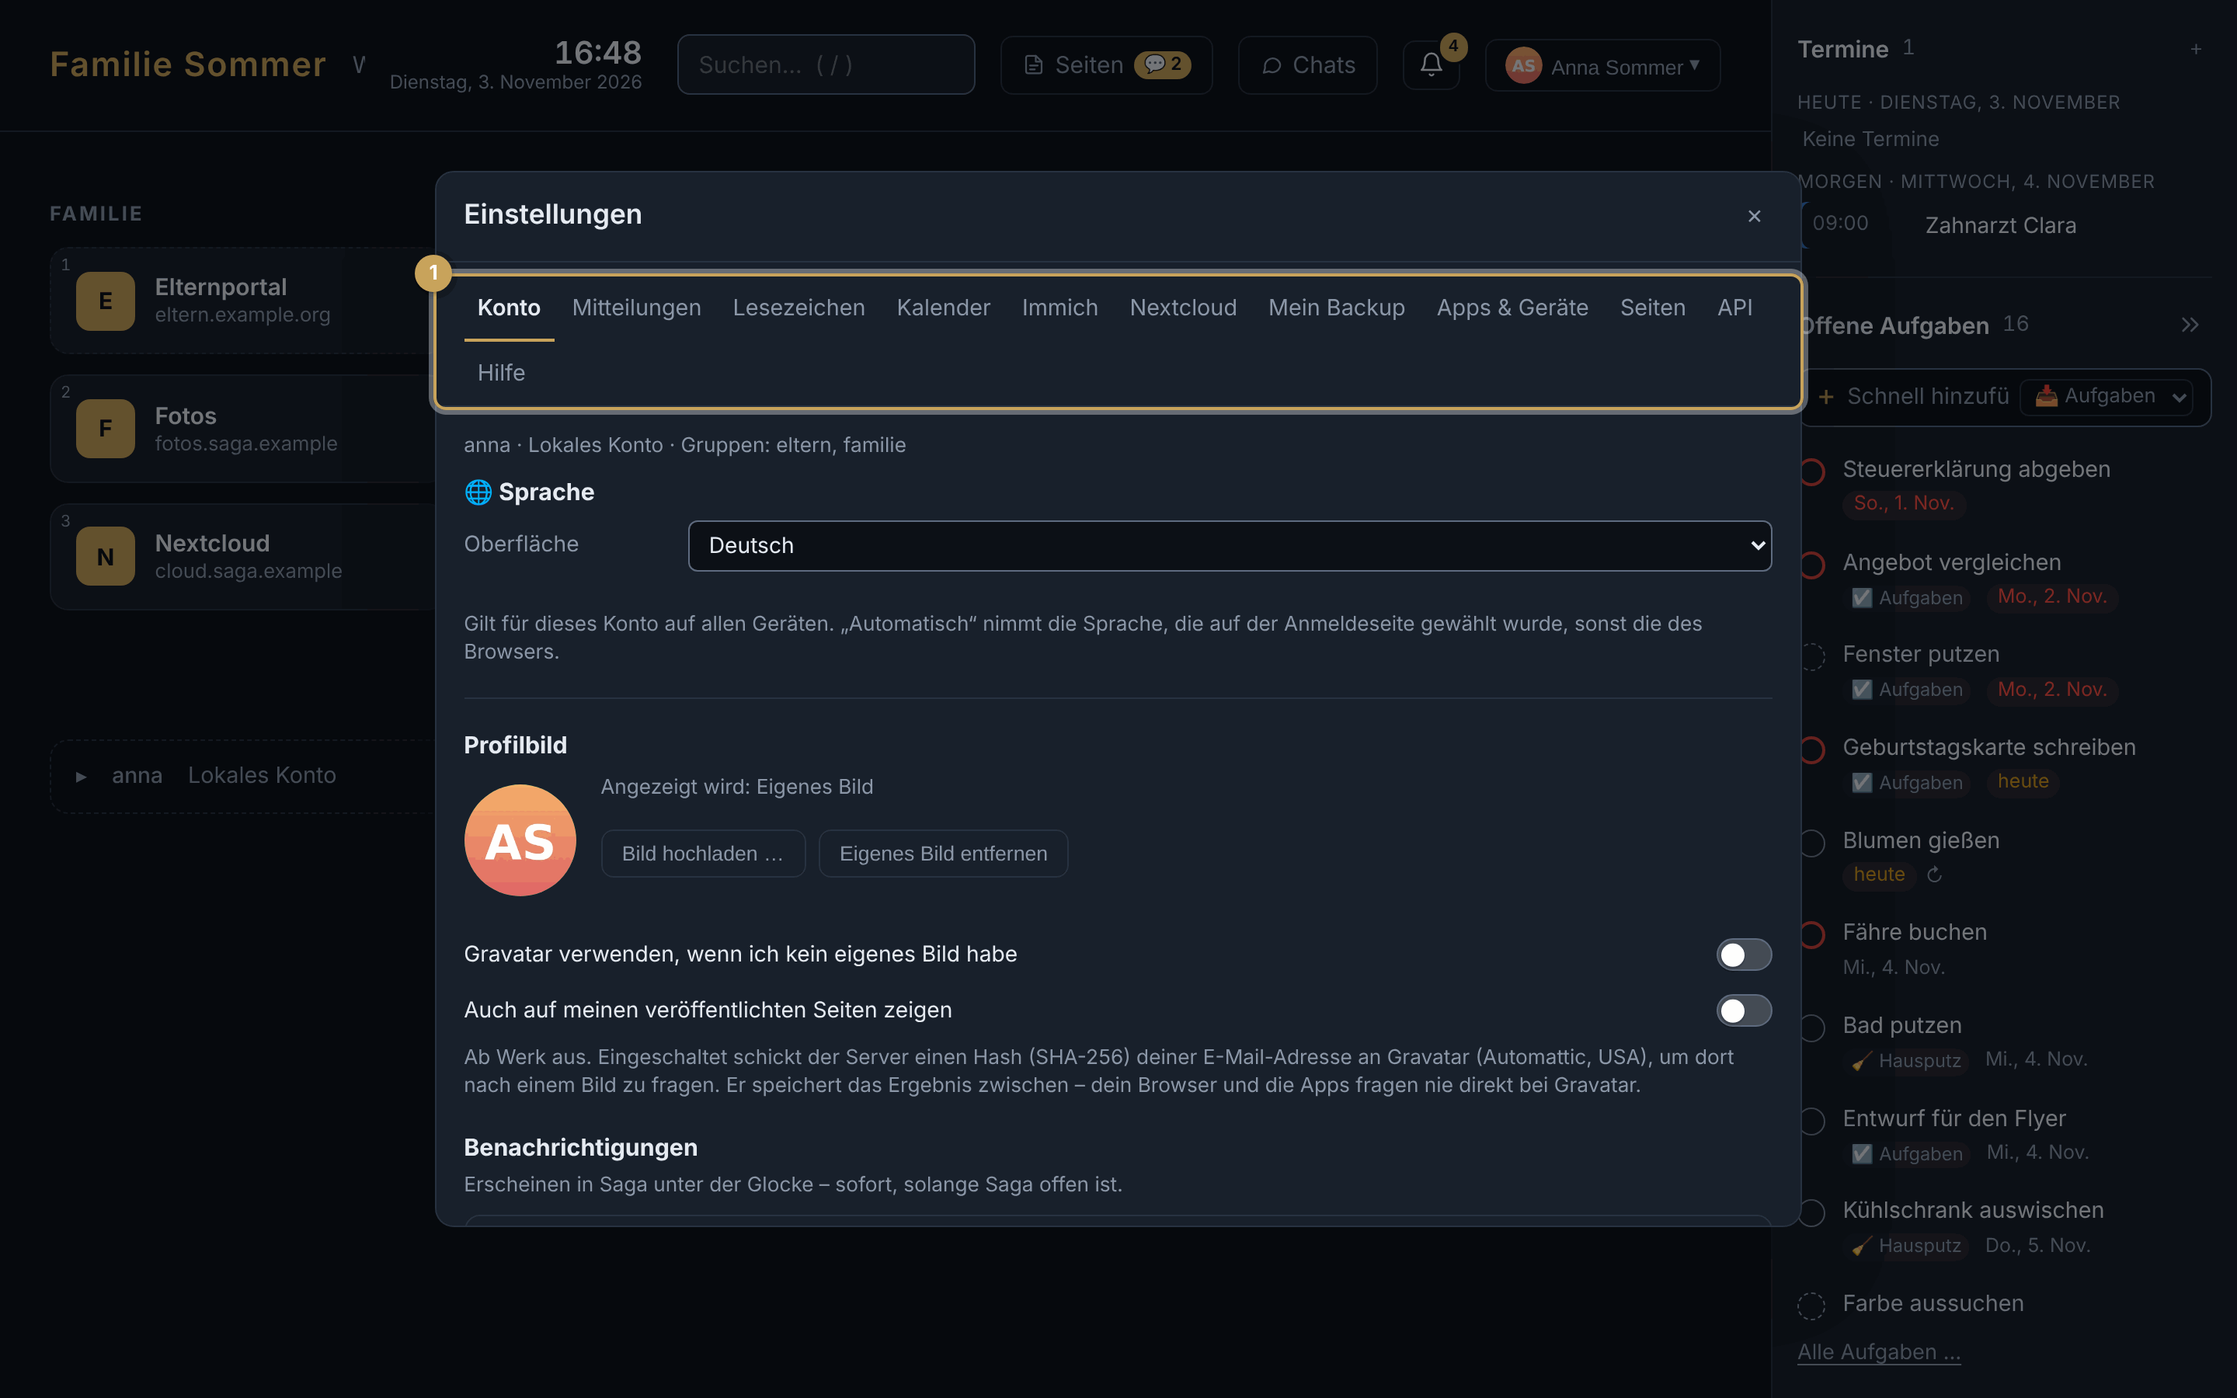
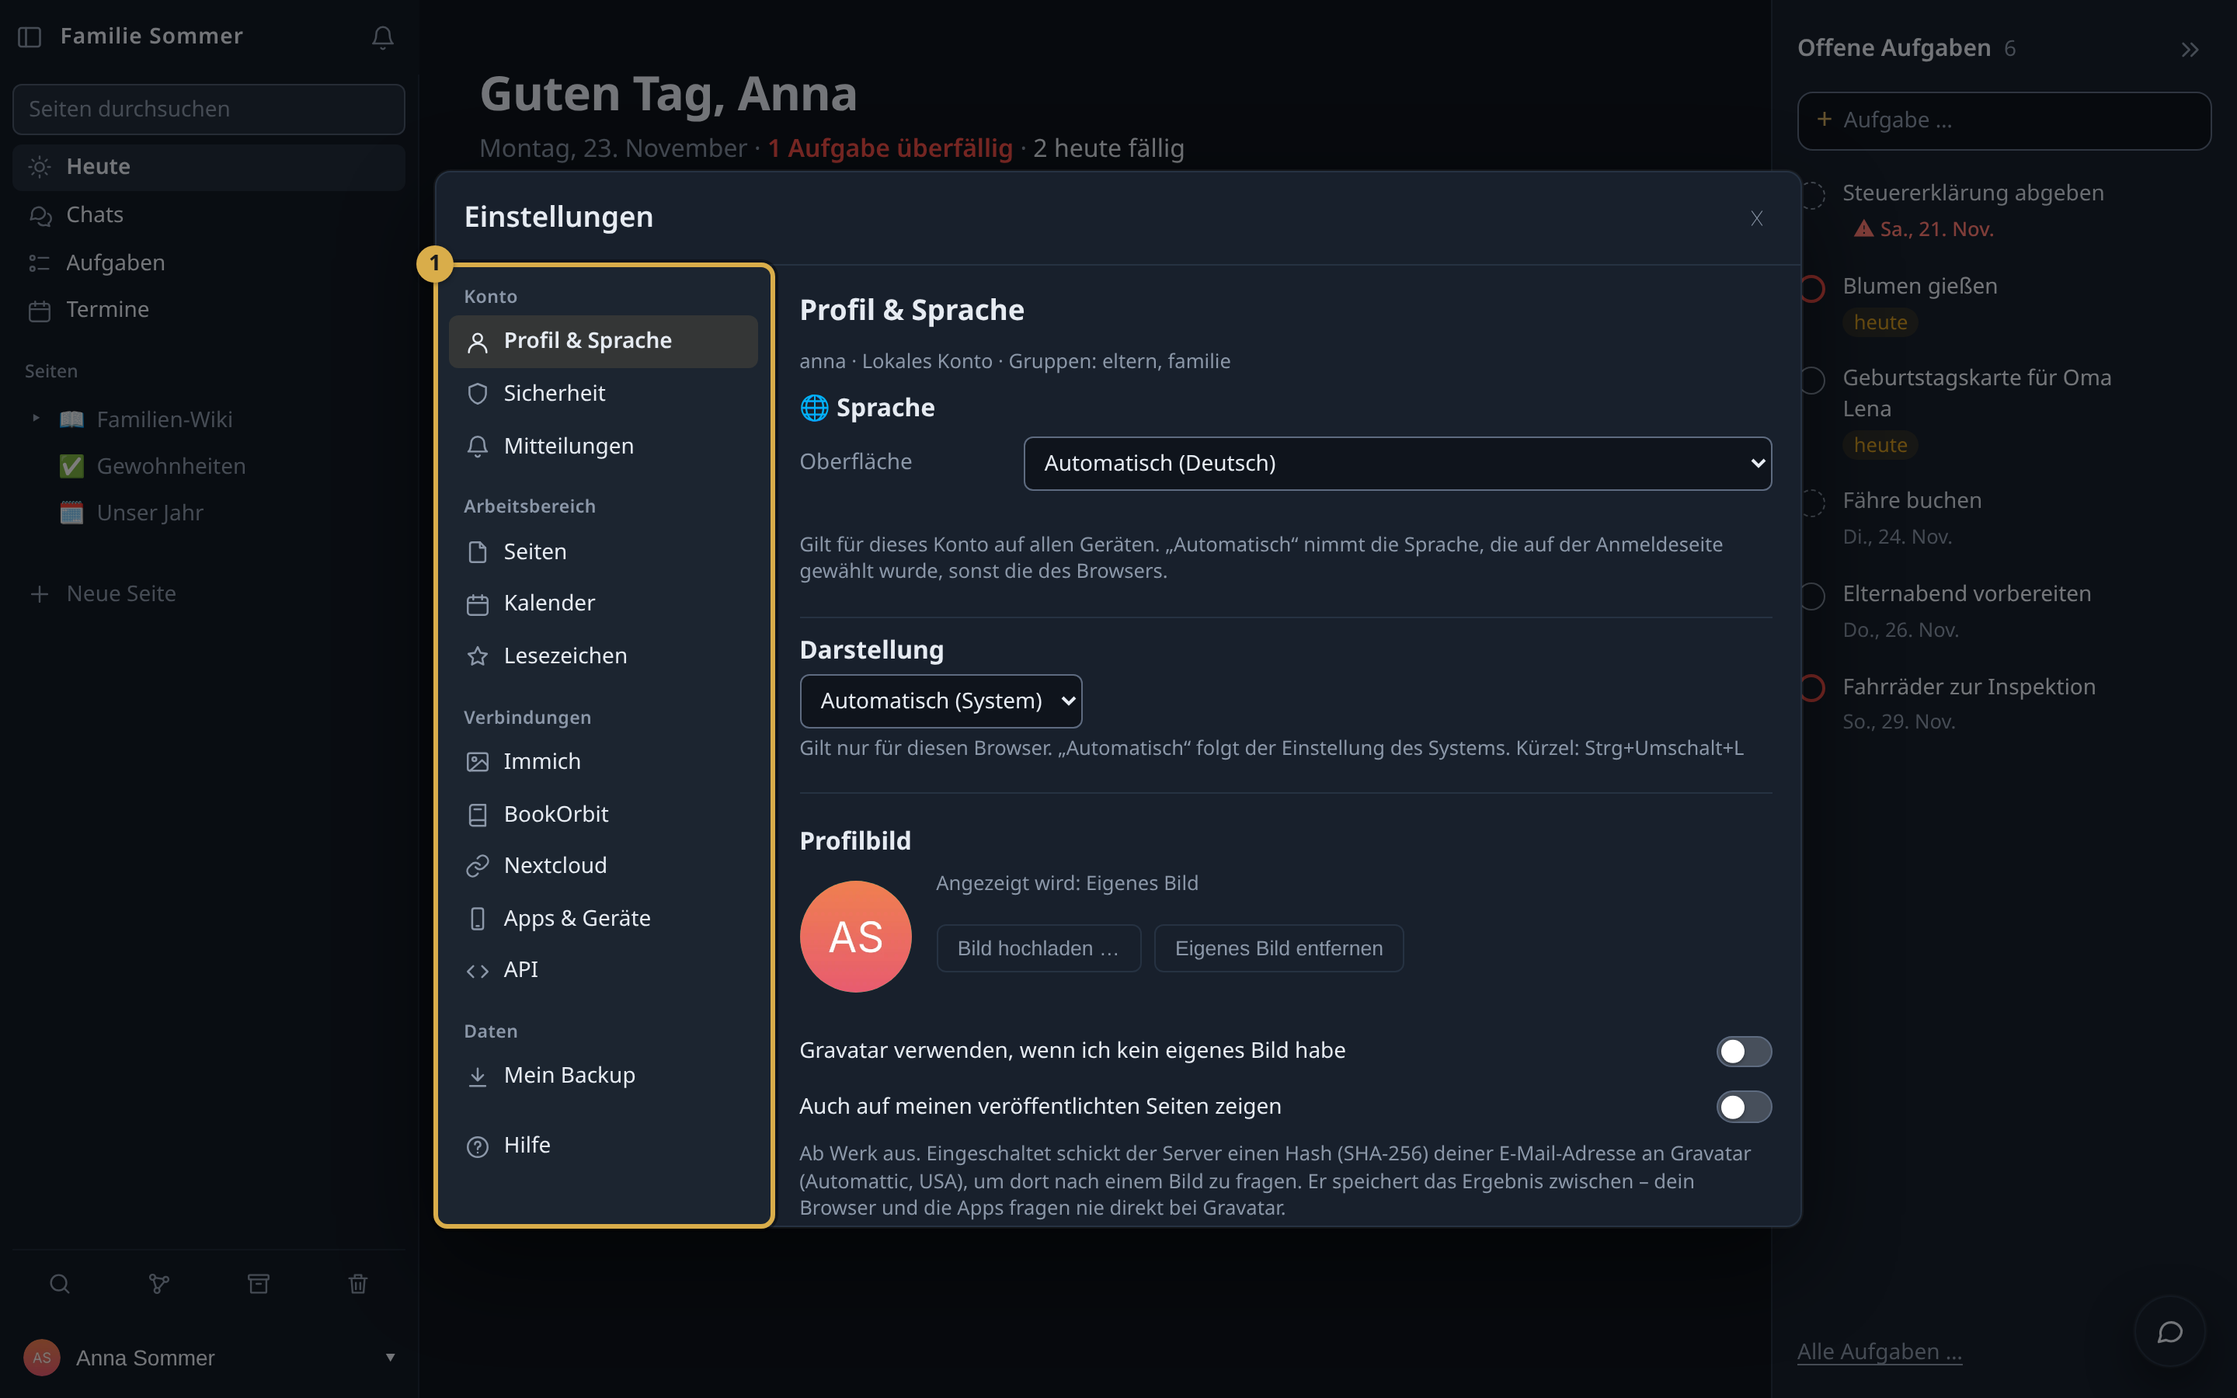
Handbuch: Einstellungs- und Admin-Bilder neu, Texte an die Navigation angepasst (Bugs-DB 2189)
Einstellungen haben seit UX-39 links eine Navigation statt der Reiterleiste: b01-04, b01-05, b01-07, b03-01, b14-02,
b16-01, b17-01, b18-01, b18-02, b19-01, b19-02 neu. Dazu a05-01 (Standard (Tiptap)), a06-02 (Tunnel-Betrieb, Alle Anrufe
ueber Knoten an, Knoten-Liste) und a09-01 (docker compose logs, echtes Zeilenformat). B01/B03 und Verweise auf
Einstellungen -> Konto an Profil & Sprache, Sicherheit und Mitteilungen angepasst, Hinweise auf veraltete Bilder entfernt.

Claude-Session: https://claude.ai/code/session_01Tj78KNaqCkatGoT8N4x7Zx

diff --git a/docs/handbuch/benutzer/01-erste-schritte.md b/docs/handbuch/benutzer/01-erste-schritte.md
@@ -84,10 +84,10 @@ Was die Nummern bedeuten:
 ### 3. Konto absichern: Passkey, Authenticator-App, Wiederherstellungscodes
 
 Ein Passwort allein kann erraten oder gestohlen werden. Deshalb kannst du dein Konto zusätzlich schützen.
-Du findest alles unter **Einstellungen → Konto → Anmeldung & Sicherheit**:
+Du findest alles unter **Einstellungen → Sicherheit**:
 
-1. Klick oben rechts auf deinen Namen (das Benutzermenü) und dann auf **⚙ Einstellungen**.
-2. Bleib auf dem Reiter **Konto** und scroll nach unten bis **Anmeldung & Sicherheit**.
+1. Klick unten links in der Seitenleiste auf deinen Namen (das Benutzermenü) und dann auf **⚙ Einstellungen**.
+2. Wähl links unter **Konto** den Bereich **Sicherheit**.
 
 ![Bereich „Anmeldung & Sicherheit“: ein Passkey „Annas MacBook“, eine eingerichtete Authenticator-App und 10 übrige Wiederherstellungscodes](../bilder/b01-03-sicherheit.png)
 
@@ -139,7 +139,7 @@ weiter. Das schützt dich, falls jemand an deinem offenen Laptop sitzt.
 
 ### 5. Profil: Name und Profilbild
 
-Unter **Einstellungen → Konto** stellst du ein, wie andere dich sehen.
+Unter **Einstellungen → Profil & Sprache** stellst du ein, wie andere dich sehen.
 
 **Anzeigename und E-Mail**
 
@@ -153,7 +153,8 @@ Unter **Einstellungen → Konto** stellst du ein, wie andere dich sehen.
 
 **Passwort ändern**
 
-1. Gib unter **Passwort ändern** dein bisheriges Passwort ein, dann zweimal das neue (mindestens 10 Zeichen).
+1. Gib unter **Einstellungen → Sicherheit** bei **Passwort ändern** dein bisheriges Passwort ein, dann zweimal das
+   neue (mindestens 10 Zeichen).
 2. Klick auf **Passwort ändern**.
 
 Danach werden alle **anderen** Browser und angemeldeten Apps abgemeldet – nur der Browser, in dem du gerade
@@ -167,7 +168,7 @@ bist, bleibt angemeldet. Die Apps melden sich einmal neu an.
 2. Zieh das Bild bei ① an die richtige Stelle und vergrößere es mit dem Regler ② **Zoom**.
 3. Klick auf **Übernehmen**.
 
-Dein Bild erscheint jetzt überall, wo du auftauchst: oben rechts, bei Kommentaren, im Chat und in der Liste
+Dein Bild erscheint jetzt überall, wo du auftauchst: in der Seitenleiste, bei Kommentaren, im Chat und in der Liste
 „Wer gerade hier ist“. Saga entfernt dabei versteckte Angaben aus dem Foto, etwa den Aufnahmeort. Mit
 **Eigenes Bild entfernen** kommen wieder deine Initialen.
 
@@ -188,10 +189,10 @@ dazu in [B10 Teilen, Rechte, Kommentare, Veröffentlichen](10-teilen.md#5-eine-s
 
 Saga spricht Deutsch, Englisch, Spanisch, Russisch und Thai.
 
-![Einstellungen, Reiter Konto, Abschnitt „Sprache“ mit der Auswahlliste „Oberfläche“](../bilder/b01-05-sprache.png)
+![Einstellungen, Bereich „Profil & Sprache“, Abschnitt „Sprache“ mit der Auswahlliste „Oberfläche“](../bilder/b01-05-sprache.png)
 
-1. Öffne **Einstellungen → Konto**. Schneller geht es über das Benutzermenü oben rechts → **🌐 Sprache** – das
-   öffnet direkt diese Stelle.
+1. Öffne **Einstellungen → Profil & Sprache**. Schneller geht es über das Benutzermenü (dein Name unten links) →
+   **🌐 Sprache**: Dort wählst du die Sprache direkt, **Mehr zur Sprache …** öffnet diese Stelle.
 2. Wähle bei ① in der Liste **Oberfläche** deine Sprache: **Automatisch**, Deutsch, English, Español, Русский
    oder ไทย.
 3. Die Sprache gilt sofort, und zwar für dein Konto auf **allen** Geräten.
@@ -205,7 +206,11 @@ Browsers.
 
 ### 7. Hell oder dunkel
 
-Saga hat **keinen eigenen Schalter** für hell und dunkel. Es richtet sich nach der Einstellung deines Geräts:
+Unter **Einstellungen → Profil & Sprache → Darstellung** (direkt unter der Sprache) wählst du **Automatisch
+(System)**, **Hell** oder **Dunkel**. Schneller geht es über das Benutzermenü oder mit `Strg`+`Umschalt`+`L`
+(Mac: `⌘`+`⇧`+`L`). Die Wahl gilt nur für **diesen Browser**.
+
+„Automatisch“ richtet sich nach der Einstellung deines Geräts:
 
 - **Windows:** Einstellungen → Personalisierung → Farben → „Modus auswählen“.
 - **Mac:** Systemeinstellungen → Erscheinungsbild.
@@ -216,29 +221,30 @@ Stellst du dein Gerät auf „automatisch“, wird Saga abends von selbst dunkel
 
 ### 8. Die Einstellungen im Überblick
 
-Alle persönlichen Einstellungen liegen in einem Fenster mit Reitern. Du öffnest es über dein Benutzermenü oben
-rechts → **⚙ Einstellungen**.
+Alle persönlichen Einstellungen liegen in einem Fenster. Du öffnest es über dein Benutzermenü (dein Name unten
+links in der Seitenleiste) → **⚙ Einstellungen**. Links stehen die Bereiche, rechts der gewählte Bereich.
 
-![Fenster „Einstellungen“ im dunklen Modus mit allen Reitern von „Konto“ bis „Hilfe“](../bilder/b01-07-einstellungen-reiter.png)
+![Fenster „Einstellungen“ im dunklen Modus: links die Bereiche in den Gruppen Konto, Arbeitsbereich, Verbindungen, Daten und Hilfe, rechts „Profil & Sprache“](../bilder/b01-07-einstellungen-reiter.png)
 
-Die Reiter bei ①:
+Die Bereiche bei ①:
 
-- **Konto** – Sprache, Profilbild, Name, Passwort, Anmeldung & Sicherheit, öffentlicher Name
-- **Mitteilungen** – was dich wann benachrichtigt (siehe [B14](14-benachrichtigungen.md))
-- **Lesezeichen** – deine eigenen Kacheln (siehe [B03 Lesezeichen](03-lesezeichen.md))
-- **Kalender**, **Immich**, **Nextcloud** – eigene Dienste verbinden (siehe [B16](16-verbindungen.md))
-- **Mein Backup** – deine eigenen Daten sichern (siehe [B19](19-hilfe.md))
-- **Apps & Geräte** – angemeldete Apps, App per QR-Code anmelden (siehe [B17](17-apps.md))
-- **Seiten** – Einstellungen zum Seiten-Editor
-- **API** – für Fortgeschrittene: Zugänge für eigene Skripte (siehe [B18](18-api-webhooks-mcp.md))
+- **Konto** – **Profil & Sprache** (Sprache, Darstellung, Profilbild, Name, öffentlicher Name), **Sicherheit**
+  (Passwort, Passkeys, Authenticator-App) und **Mitteilungen** (was dich wann benachrichtigt, siehe
+  [B14](14-benachrichtigungen.md))
+- **Arbeitsbereich** – **Seiten** (Einstellungen zum Seiten-Editor), **Kalender** und **Lesezeichen** (siehe
+  [B16](16-verbindungen.md) und [B03 Lesezeichen](03-lesezeichen.md))
+- **Verbindungen** – **Immich**, **BookOrbit**, **Nextcloud** (siehe [B16](16-verbindungen.md)), **Apps & Geräte**
+  (angemeldete Apps, App per QR-Code anmelden, siehe [B17](17-apps.md)) und **API** (für Fortgeschrittene, siehe
+  [B18](18-api-webhooks-mcp.md))
+- **Daten** – **Mein Backup**: deine eigenen Daten sichern (siehe [B19](19-hilfe.md))
 - **Hilfe** – Saga-Version und „Diagnose senden“, wenn etwas hakt (siehe [B19](19-hilfe.md))
 
-Welche Reiter du siehst, hängt davon ab, was dein Admin eingeschaltet hat. Auf dem Handy wischst du die
-Reiterleiste seitlich. Mit **✕** oder der Taste `Esc` schließt du das Fenster.
+Welche Bereiche du siehst, hängt davon ab, was dein Admin eingeschaltet hat. Mit den Pfeiltasten wechselst du
+zwischen den Bereichen. Mit **✕** oder der Taste `Esc` schließt du das Fenster.
 
 ### 9. Abmelden
 
-1. Klick oben rechts auf deinen Namen.
+1. Klick unten links in der Seitenleiste auf deinen Namen.
 2. Klick auf **↪ Abmelden**.
 
 Saga meldet dich in **diesem** Browser ab. Andere Geräte bleiben angemeldet.
@@ -257,7 +263,7 @@ Saga meldet dich in **diesem** Browser ab. Andere Geräte bleiben angemeldet.
 1. Anna schickt Lena die Adresse `https://saga.example`, den Benutzernamen `lena` und ein Startpasswort.
 2. Lena öffnet die Adresse im Handy-Browser, tippt `lena` und das Startpasswort ein und tippt auf
    **Anmelden**.
-3. Sie tippt oben auf ihr Profilbild-Kürzel → **⚙ Einstellungen**. Auf dem Reiter **Konto** trägt sie als
+3. Sie tippt auf ihr Profilbild-Kürzel → **⚙ Einstellungen** → **Profil & Sprache** und trägt als
    Anzeigenamen „Oma Lena“ ein und tippt auf **Speichern**.
 4. Unter **Passwort ändern** ersetzt sie das Startpasswort durch ein eigenes.
 5. Weiter unten bei **Anmeldung & Sicherheit** schreibt sie in das Namensfeld „Lenas Handy“ und tippt auf
@@ -294,7 +300,7 @@ Saga meldet dich in **diesem** Browser ab. Andere Geräte bleiben angemeldet.
 - **Codes nicht nur digital:** Bewahr mindestens einen Satz Wiederherstellungscodes außerhalb deines Handys
   auf – sonst sind beim Verlust des Handys Passkey **und** Codes weg.
 - **`Esc`** schließt die Einstellungen.
-- **Benutzermenü → 🌐 Sprache** springt direkt zur Sprachauswahl.
+- **Benutzermenü → 🌐 Sprache** wechselt die Sprache direkt.
 
 ---
 
@@ -331,7 +337,7 @@ Die Anmeldeseite sieht auf dem Handy genauso aus, nur schmaler. Die Nummern bede
 <img src="../bilder/b01-06-login-handy.png" width="320" alt="Anmeldeseite im Handy-Browser im dunklen Modus mit Benutzername, Passwort, „Mit Passkey anmelden“ und Sprachauswahl">
 
 - Passkeys anlegen und benutzen klappt auf dem Handy wie am Computer – mit Fingerabdruck oder Gesicht.
-- In den Einstellungen wischst du die Reiterleiste seitlich, um alle Reiter zu sehen.
+- Die Einstellungen zeigen am Handy zuerst die Liste der Bereiche; **‹ Einstellungen** führt zurück zur Liste.
 - Über das Browser-Menü **Zum Home-Bildschirm** startest du Saga wie eine App.
 
 **Apps (iOS/iPadOS/Mac, Android, Linux)**

diff --git a/docs/handbuch/benutzer/03-lesezeichen.md b/docs/handbuch/benutzer/03-lesezeichen.md
@@ -31,11 +31,11 @@ So erkennst du auf einen Blick, was von dir stammt.
 ### 1. Ein Lesezeichen anlegen
 
 1. Klick auf dem Dashboard unten rechts auf **+ Lesezeichen**.
-   (Oder: Benutzermenü oben rechts → **⚙ Einstellungen** → Reiter **Lesezeichen** → **+ Lesezeichen**.)
-2. Das Fenster **Einstellungen** öffnet sich auf dem Reiter **Lesezeichen**, darunter ein leeres Formular. Der
+   (Oder: Benutzermenü → **⚙ Einstellungen** → **Lesezeichen** → **+ Lesezeichen**.)
+2. Das Fenster **Einstellungen** öffnet sich im Bereich **Lesezeichen**, darunter ein leeres Formular. Der
    Cursor steht schon im Feld **Adresse**.
 
-![Einstellungen, Reiter Lesezeichen: oben zwei vorhandene Lesezeichen „Vertretungsplan“ und „Mensa“, darunter das Formular mit Adresse, Name, Symbol und Kategorie](../bilder/b03-01-lesezeichen-dialog.png)
+![Einstellungen, Bereich Lesezeichen: oben zwei vorhandene Lesezeichen „Vertretungsplan“ und „Mensa“, darunter das Formular mit Adresse, Name, Symbol und Kategorie](../bilder/b03-01-lesezeichen-dialog.png)
 
 3. Trag bei ① **Adresse** die Internetadresse ein, zum Beispiel `https://schule.example.org/vertretungsplan`.
    Das ist das einzige Pflichtfeld. Lässt du `https://` weg, ergänzt Saga es selbst.
@@ -95,12 +95,12 @@ Namen, keine Adresse.
 2. Klick darauf. Die Einstellungen öffnen sich mit dem ausgefüllten Formular.
 3. Ändere Adresse, Name, Symbol oder Kategorie und klick auf **Speichern**.
 
-**Oder in den Einstellungen:** Benutzermenü → **⚙ Einstellungen** → Reiter **Lesezeichen**. Dort stehen alle
+**Oder in den Einstellungen:** Benutzermenü → **⚙ Einstellungen** → **Lesezeichen**. Dort stehen alle
 deine Lesezeichen mit Kategorie und Adresse. Klick bei einem auf **Bearbeiten**.
 
 ### 5. Ein Lesezeichen löschen
 
-1. Öffne **⚙ Einstellungen** → Reiter **Lesezeichen**.
+1. Öffne **⚙ Einstellungen** → **Lesezeichen**.
 2. Klick beim gewünschten Lesezeichen auf **Löschen**.
 3. Bestätige die Rückfrage „Lesezeichen „…“ löschen?“.
 

diff --git a/docs/handbuch/benutzer/11-foederation.md b/docs/handbuch/benutzer/11-foederation.md
@@ -43,7 +43,7 @@ und im Chat – steht deshalb der Server dabei, zum Beispiel „Frieda Linde (fr
 
 Auch Gruppen auf dem anderen Server lassen sich so ansprechen: `vorstand@verein.example`.
 
-> **Tipp:** Ob andere dich über deinen Anzeigenamen finden dürfen, stellst du unter **Einstellungen → Konto →
+> **Tipp:** Ob andere dich über deinen Anzeigenamen finden dürfen, stellst du unter **Einstellungen → Profil & Sprache →
 > „In Adressbüchern verbundener Server erscheinen“** ein. Ist der Haken aus, findet man dich dort nur noch, wenn man
 > dein Handle genau kennt.
 
@@ -129,7 +129,7 @@ ein Konto bei Familie Sommer auf `saga.example`. Die Admins der beiden Server ha
 
 ## Tipps und Tastenkürzel
 
-- Dein eigenes Handle besteht aus deinem **öffentlichen Namen** (Einstellungen → Konto) und der Adresse deines
+- Dein eigenes Handle besteht aus deinem **öffentlichen Namen** (Einstellungen → Profil & Sprache) und der Adresse deines
   Saga – bei Anna also `anna-sommer@saga.example`. So kannst du es anderen weitergeben.
 - Seiten anderer Server erkennst du im Seitenbaum immer am Server-Namen dahinter.
 - Es gibt keine eigenen Tastenkürzel für Föderation – alles geht wie bei deinen eigenen Seiten.

diff --git a/docs/handbuch/admin/04-anmeldung.md b/docs/handbuch/admin/04-anmeldung.md
@@ -156,8 +156,8 @@ und Absatz „IPv6 und Docker“).
 **Frieda verlangt 2FA für alle Admins.** Im Gartenverein haben Frieda und ihr Stellvertreter Admin-Rechte. Frieda
 will die Admin-Konten besser schützen.
 
-1. Frieda richtet sich selbst zuerst einen Passkey und eine Authenticator-App ein (Einstellungen → Konto →
-   Anmeldung & Sicherheit).
+1. Frieda richtet sich selbst zuerst einen Passkey und eine Authenticator-App ein (Einstellungen →
+   Sicherheit).
 2. Im Admin-Bereich öffnet sie **Allgemein → Zweiter Faktor**.
 3. Bei **2FA verlangen für** wählt sie **Admins** und speichert.
 4. Ihr Stellvertreter meldet sich am Abend an. Saga führt ihn nach dem Passwort zur Einrichtung. Er scannt den

diff --git a/docs/handbuch/admin/05-allgemein.md b/docs/handbuch/admin/05-allgemein.md
@@ -54,8 +54,6 @@ und am Ende steht eine Tabelle mit allen Schaltern und ihrem Standardwert.
 
 ![Allgemein → Seiten: Vorlagengalerie, Seiten-Editor, Editor-Diagnose, gleichzeitig bearbeiten live und Wetter-Widget](../bilder/a05-01-allgemein-seiten.png)
 
-> **Hinweis:** Im Bild heißt der Editor noch „Neu (Tiptap, Test)“; in Saga 2.5 steht dort „Standard (Tiptap)“.
-
 - **Vorlagengalerie anbieten** – die fertigen Vorlagen beim Anlegen einer Seite.
 - **Seiten-Editor** – **Klassisch (Editor.js)**, **Standard (Tiptap)** oder **Jede Person wählt selbst** (dann unter
   Einstellungen → Seiten). Gespeichert wird in beiden Fällen dasselbe; du kannst also jederzeit wechseln.

diff --git a/docs/handbuch/benutzer/14-benachrichtigungen.md b/docs/handbuch/benutzer/14-benachrichtigungen.md
@@ -60,7 +60,7 @@ Gut zu wissen:
 
 ### 2. Worüber die Glocke Bescheid sagt
 
-Unter **Einstellungen → Konto → Benachrichtigungen** schaltest du jede Art einzeln an oder ab:
+Unter **Einstellungen → Mitteilungen → Worüber?** schaltest du jede Art einzeln an oder ab:
 
 - Jemand teilt eine Seite mit mir / meine Rolle ändert sich
 - Neue Kommentare auf meinen Seiten und Antworten in Unterhaltungen, an denen ich beteiligt bin
